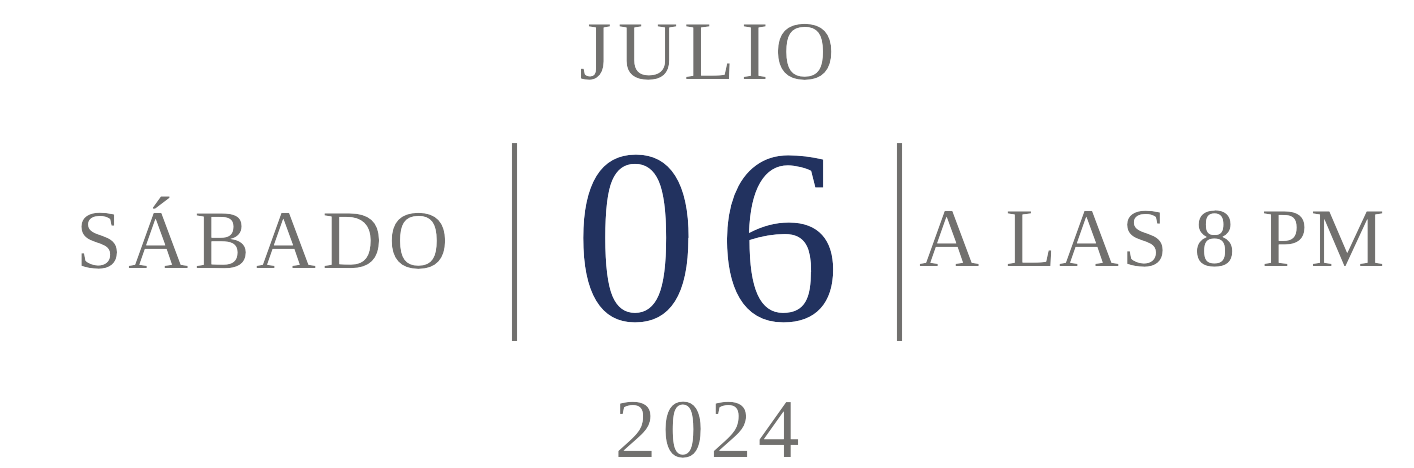
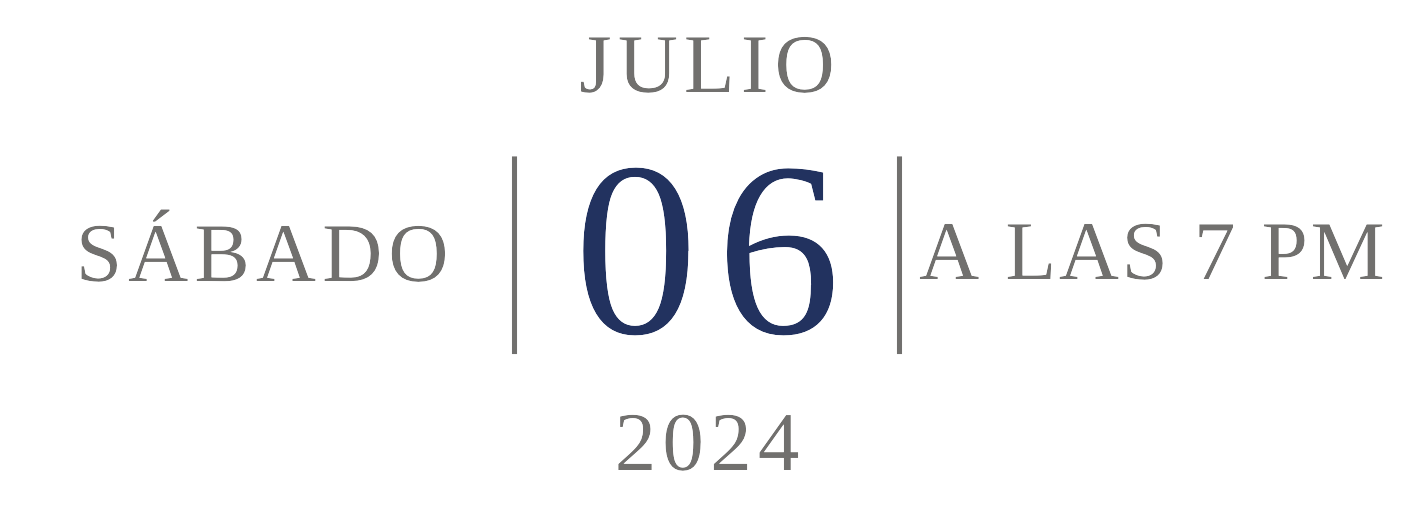
invi

diff --git a/contador.js b/contador.js
@@ -3,7 +3,7 @@ const second = 1000,
       hour = minute * 60,
       day = hour * 24;
 
-let countDown = new Date('Jul 06, 2024 20:00:00').getTime(),
+let countDown = new Date('Jul 06, 2024 19:00:00').getTime(),
     x = setInterval(function() {
 
       let now = new Date().getTime(),
